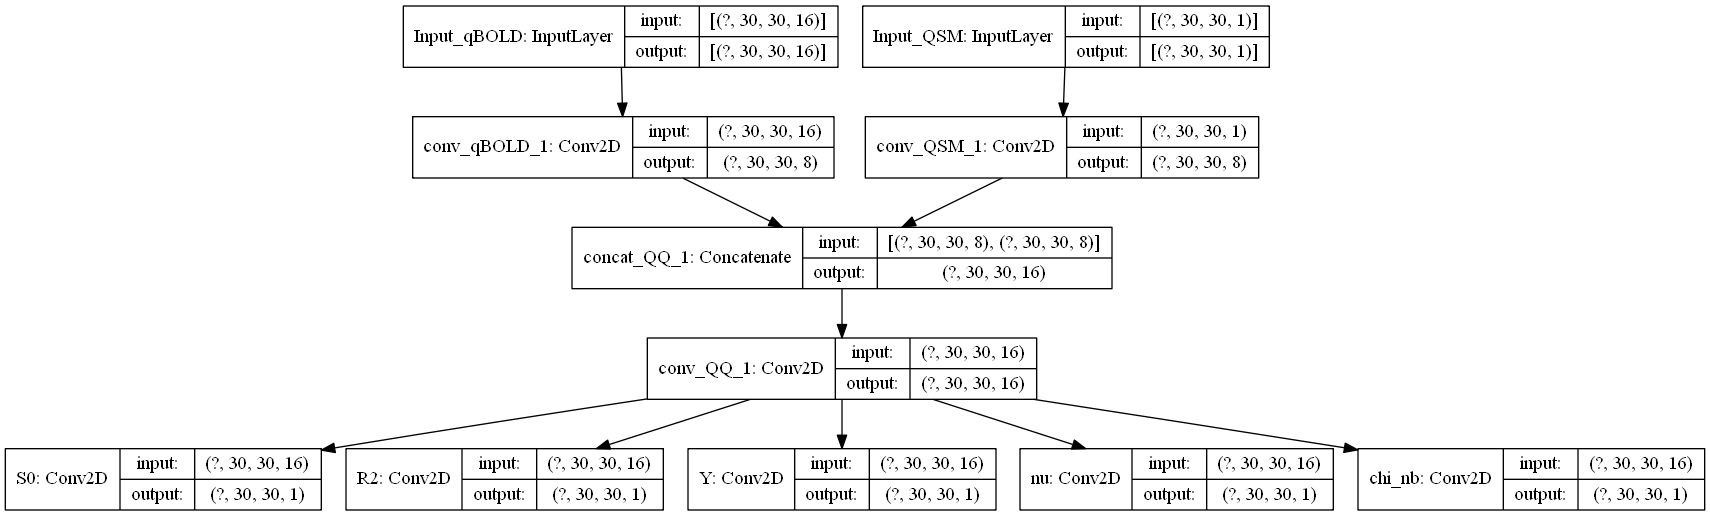
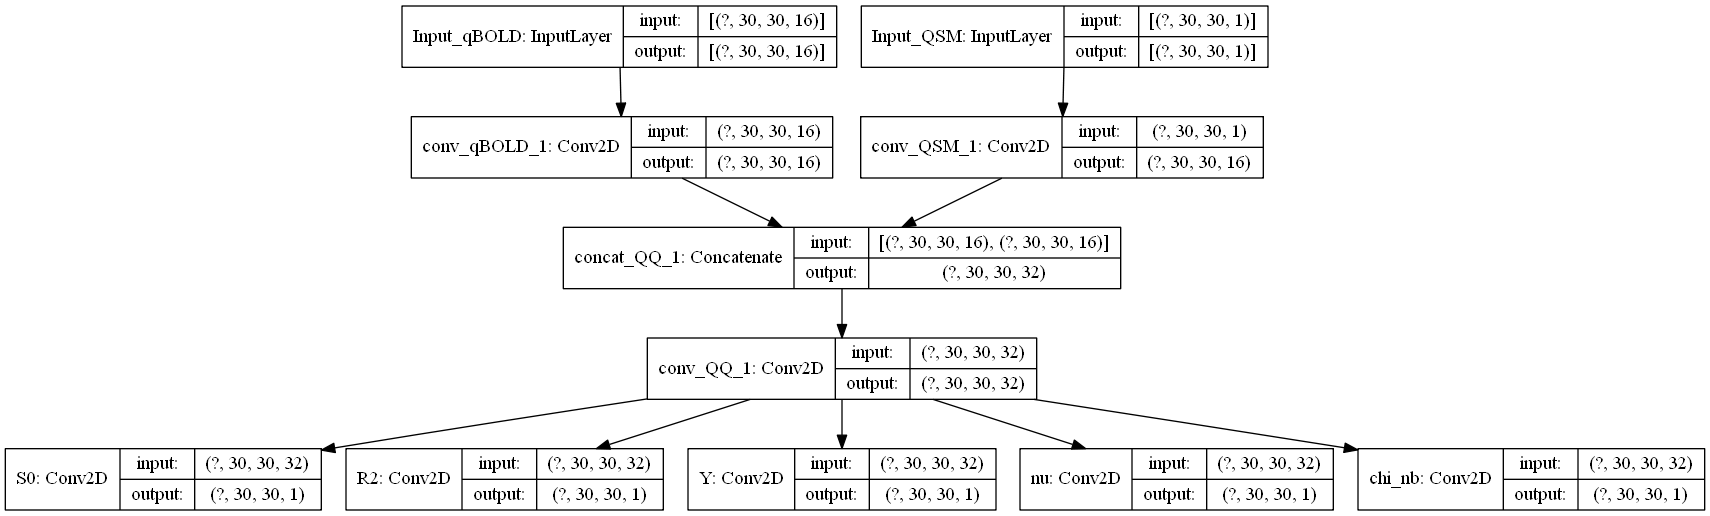
Add dataloader with noise

diff --git a/QSM_qBOLD_2D_network_with_dataset.py b/QSM_qBOLD_2D_network_with_dataset.py
@@ -37,12 +37,14 @@ version = "no_air_0noise_big/"
 filenames=[]
 filenumber=int(848820)
 for count in range(filenumber):
-    filenames.append("{0}.TIF".format(count).zfill(6+4))
+    filenames.append("{0}.npz".format(count).zfill(6+4))
 filenames_shuffled=shuffle(filenames)
 #split
-threshold = int(filenumber*0.8)
-filenames_train_shuffled=filenames[:threshold]
-filenames_val_shuffled=filenames[threshold:]
+threshold1 = int(filenumber*0.8)
+threshold2 = int(filenumber*0.9)
+filenames_train_shuffled=filenames[:threshold1]
+filenames_val_shuffled=filenames[threshold1:threshold2]
+filenames_test_shuffled=filenames[threshold2:]
 len(filenames_train_shuffled)
 #filenames_val_shuffled
 # %% Network
@@ -52,7 +54,7 @@ input_qBOLD = keras.Input(shape=(30,30,16), name = 'Input_qBOLD')
 input_qBOLD.shape
 input_qBOLD.dtype
 
-n=8
+n=16
 
 conv_qBOLD_1 = keras.layers.Conv2D(n,
                   kernel_size = 3,
@@ -152,8 +154,8 @@ losses = {
 lossWeights = {
     "S0":1.0,
     "R2":1.0,
-    "Y":1.0,
-    "nu":1.0,
+    "Y":5.0,
+    "nu":5.0,
     "chi_nb":1.0,
 }
 model_params.compile(
@@ -175,9 +177,9 @@ my_callbacks = [
 
 batch_size=100
 train_params_loader = QQBoldParamsLoader(name="training_loader",shuffle=False,n_inputs=2,n_labels=5)
-training_Params_data =train_params_loader(filenames_train_shuffled,batch_size=batch_size,n_epochs=100,read_threads=1)
+training_Params_data =train_params_loader(filenames_train_shuffled,batch_size=batch_size,read_threads=1)
 val_params_loader = QQBoldParamsLoader(name="val_loader",shuffle=False,n_inputs=2,n_labels=5)
-val_Params_data =train_params_loader(filenames_val_shuffled,batch_size=batch_size,n_epochs=100,read_threads=1)
+val_Params_data =train_params_loader(filenames_val_shuffled,batch_size=batch_size,read_threads=1)
 
 #data_read = train_params_loader._read_file_and_return_numpy_samples(bytes(filenames_train_shuffled[0],'utf-8'))
 #for i in data_read:
@@ -202,24 +204,22 @@ val_Params_data =train_params_loader(filenames_val_shuffled,batch_size=batch_siz
 history_params = model_params.fit(training_Params_data, validation_data=val_Params_data, epochs = 100, callbacks=my_callbacks)
 
 #%%
-"""
-S0_test = Params_test[:,:,:,0]
-R2_test = Params_test[:,:,:,1]
-Y_test = Params_test[:,:,:,2]
-nu_test = Params_test[:,:,:,3]
-chi_nb_test = Params_test[:,:,:,4]
-test_list = [S0_test,R2_test,Y_test,nu_test,chi_nb_test]
+np.save('models/'+version+'history_params_2D_fully_conv_Params_before_qqbold_5_times_weights.npy',history_params.history)
+np.save('models/'+version+'filenames_test_2D_fully_conv_Params_before_qqbold_5_times_weights.npy',filenames_test_shuffled)
+test_params_loader = QQBoldParamsLoader(name="test_loader",shuffle=False,n_inputs=2,n_labels=5)
+test_Params_data =train_params_loader(filenames_test_shuffled,batch_size=batch_size,read_threads=1)
 
 
-test_scores = model_params.evaluate([qBOLD_test,QSM_test], test_list, verbose=2)
+test_scores = model_params.evaluate(test_Params_data, verbose=2)
 print("Test loss:", test_scores[0])
 print("Test accuracy:", test_scores[1])
+
 #%%
 print(history_params.history.keys())
 def plot_loss(history, keyword):
     plt.figure()
-    plt.plot(history.history[keyword + 'loss'])
-    plt.plot(history.history['val_'+keyword+'loss'])
+    plt.plot(history.history[keyword + 'loss'],'o-')
+    plt.plot(history.history['val_'+keyword+'loss'],'o-')
     plt.yscale('log')
     plt.title('model ' +keyword+ 'loss')
     plt.ylabel('loss')
@@ -234,85 +234,227 @@ plot_loss(history_params,'nu_')
 plot_loss(history_params,'chi_nb_')
 
 #%%
-model_params.save("models/"+version+ "Model_2D_fully_conv_Params_before_qqbold.h5")
+model_params.save("models/"+version+ "Model_2D_fully_conv_Params_before_qqbold_5_times_weights.h5")
 
 # %%
 #model_params = keras.models.load_model("models/"+version+ "Model_2D_Params_before_qqbold.h5")
 #model_params.summary()
-p = model_params.predict([qBOLD_test,QSM_test])
+data_Params_reduced = test_Params_data.take(1)
+data_element=list(data_Params_reduced.as_numpy_iterator())[0]
+len(data_element) #2 x and y
+len(data_element[1]) #5 the 5 parameters
+data_element[1][0].shape
+p = model_params.predict(data_element)
+len(p)
 p[0].shape
+
 #%%
 def check_Params(Params_test,p,Number):
     fig, axes = plt.subplots(nrows=2, ncols=5,figsize=(15,5))
     ax = axes.ravel()
-    P0 = ax[0].imshow(Params_test[Number,:,:,0], cmap='gray')
+    P0 = ax[0].imshow(Params_test[0][Number,:,:], cmap='gray')
+    P0.set_clim(.0,1)
     ax[0].title.set_text('a')
     plt.colorbar(P0,ax=ax[0])
-    P1 = ax[1].imshow(Params_test[Number,:,:,1], cmap='gray')
+    P1 = ax[1].imshow(Params_test[1][Number,:,:], cmap='gray')
+    P1.set_clim(.0,1)
     ax[1].title.set_text('b')
     plt.colorbar(P1,ax=ax[1])
-    P2 = ax[2].imshow(Params_test[Number,:,:,2], cmap='gray')
+    P2 = ax[2].imshow(Params_test[2][Number,:,:], cmap='gray')
+    P2.set_clim(.0,1)
     ax[2].title.set_text('c')
     plt.colorbar(P2,ax=ax[2])
-    P3 = ax[3].imshow(Params_test[Number,:,:,3], cmap='gray')
+    P3 = ax[3].imshow(Params_test[3][Number,:,:], cmap='gray')
+    P3.set_clim(.0,1)
     ax[3].title.set_text('d')
     plt.colorbar(P3,ax=ax[3])
-    P4 = ax[4].imshow(Params_test[Number,:,:,4], cmap='gray')
+    P4 = ax[4].imshow(Params_test[4][Number,:,:], cmap='gray')
+    P4.set_clim(.0,1)
     ax[4].title.set_text('e')
     plt.colorbar(P4,ax=ax[4])
     P5 = ax[5].imshow(np.squeeze(p[0][Number,:,:,:]), cmap='gray')
+    P5.set_clim(.0,1)
     plt.colorbar(P5,ax=ax[5])
     P6 = ax[6].imshow(np.squeeze(p[1][Number,:,:,:]), cmap='gray')
+    P6.set_clim(.0,1)
     plt.colorbar(P6,ax=ax[6])
     P7 = ax[7].imshow(np.squeeze(p[2][Number,:,:,:]), cmap='gray')
+    P7.set_clim(.0,1)
     plt.colorbar(P7,ax=ax[7])
     P8 = ax[8].imshow(np.squeeze(p[3][Number,:,:,:]), cmap='gray')
+    P8.set_clim(.0,1)
     plt.colorbar(P8,ax=ax[8])
     P9 = ax[9].imshow(np.squeeze(p[4][Number,:,:,:]), cmap='gray')
+    P9.set_clim(.0,1)
     plt.colorbar(P9,ax=ax[9])
     plt.show()
 
     fig, axes = plt.subplots(nrows=1, ncols=5,figsize=(15,5))
     ax = axes.ravel()
-    ax[0].plot(Params_test[Number,15,:,0],'.')
+    ax[0].plot(Params_test[0][Number,15,:],'.')
     ax[0].plot(np.squeeze(p[0][Number,15,:,:]),'.')
+    ax[0].set_ylim(0,1)
     ax[0].title.set_text('a')
-    ax[1].plot(Params_test[Number,15,:,1],'.')
+    ax[1].plot(Params_test[1][Number,15,:],'.')
     ax[1].plot(np.squeeze(p[1][Number,15,:,:]),'.')
+    ax[1].set_ylim(0,1)
     ax[1].title.set_text('b')
-    ax[2].plot(Params_test[Number,15,:,2],'.')
+    ax[2].plot(Params_test[2][Number,15,:],'.')
     ax[2].plot(np.squeeze(p[2][Number,15,:,:]),'.')
+    ax[2].set_ylim(0,1)
     ax[2].title.set_text('c')
-    ax[3].plot(Params_test[Number,15,:,3],'.')
+    ax[3].plot(Params_test[3][Number,15,:],'.')
     ax[3].plot(np.squeeze(p[3][Number,15,:,:]),'.')
+    ax[3].set_ylim(0,1)
     ax[3].title.set_text('d')
-    ax[4].plot(Params_test[Number,15,:,4],'.')
+    ax[4].plot(Params_test[4][Number,15,:],'.')
     ax[4].plot(np.squeeze(p[4][Number,15,:,:]),'.')
+    ax[4].set_ylim(0,1)
     ax[4].title.set_text('e')
     plt.show()
 
 
     fig, axes = plt.subplots(nrows=2, ncols=5,figsize=(15,5))
     ax = axes.ravel()
-    ax[0].hist(Params_test[Number,:,:,0].ravel())
+    ax[0].hist(Params_test[0][Number,:,:].ravel(),range=((0,1)))
     ax[0].title.set_text('a')
-    ax[1].hist(Params_test[Number,:,:,1].ravel())
+    ax[1].hist(Params_test[1][Number,:,:].ravel(),range=((0,1)))
     ax[1].title.set_text('b')
-    ax[2].hist(Params_test[Number,:,:,2].ravel())
+    ax[2].hist(Params_test[2][Number,:,:].ravel(),range=((0,1)))
     ax[2].title.set_text('c')
-    ax[3].hist(Params_test[Number,:,:,3].ravel())
+    ax[3].hist(Params_test[3][Number,:,:].ravel(),range=((0,1)))
     ax[3].title.set_text('d')
-    ax[4].hist(Params_test[Number,:,:,4].ravel())
+    ax[4].hist(Params_test[4][Number,:,:].ravel(),range=((0,1)))
     ax[4].title.set_text('e')
-    ax[5].hist(np.squeeze(p[0][Number,:,:,:]).ravel())
-    ax[6].hist(np.squeeze(p[1][Number,:,:,:]).ravel())
-    ax[7].hist(np.squeeze(p[2][Number,:,:,:]).ravel())
-    ax[8].hist(np.squeeze(p[3][Number,:,:,:]).ravel())
-    ax[9].hist(np.squeeze(p[4][Number,:,:,:]).ravel())
+    ax[5].hist(np.squeeze(p[0][Number,:,:,:]).ravel(),range=((0,1)))
+    ax[6].hist(np.squeeze(p[1][Number,:,:,:]).ravel(),range=((0,1)))
+    ax[7].hist(np.squeeze(p[2][Number,:,:,:]).ravel(),range=((0,1)))
+    ax[8].hist(np.squeeze(p[3][Number,:,:,:]).ravel(),range=((0,1)))
+    ax[9].hist(np.squeeze(p[4][Number,:,:,:]).ravel(),range=((0,1)))
     plt.show()
 #%%
-Number = 2
-check_Params(Params_test,p,Number)
+Number = 5
+check_Params(data_element[1],p,Number)
+
+#%%
+def translate_Params(Params):
+    S0 = Params[0]   #S0     = 1000 + 200 * randn(N).T
+    R2 = (30-1) * Params[1] + 1  #from 1 to 30
+    SaO2 = 0.98
+    Y  = (SaO2 - 0.01) * Params[2] + 0.01   #from 1% to 98%
+    nu = (0.1 - 0.001) * Params[3] + 0.001  #from 0.1% to 10%
+    chi_nb = ( 0.1-(-0.1) ) * Params[4] - 0.1 #fr
+    return [S0,R2,Y,nu,chi_nb]
+
+
+def check_Params_transformed(Params_test,p,Number):
+    fig, axes = plt.subplots(nrows=2, ncols=5,figsize=(15,5))
+    ax = axes.ravel()
+    P0 = ax[0].imshow(Params_test[0][Number,:,:], cmap='gray')
+    P0.set_clim(.0,1)
+    ax[0].title.set_text('S0')
+    plt.colorbar(P0,ax=ax[0])
+    P1 = ax[1].imshow(Params_test[1][Number,:,:], cmap='gray')
+    P1.set_clim(0,30)
+    ax[1].title.set_text('R2')
+    plt.colorbar(P1,ax=ax[1])
+    P2 = ax[2].imshow(Params_test[2][Number,:,:], cmap='gray')
+    P2.set_clim(.0,1)
+    ax[2].title.set_text('Y')
+    plt.colorbar(P2,ax=ax[2])
+    P3 = ax[3].imshow(Params_test[3][Number,:,:], cmap='gray')
+    P3.set_clim(0,0.1)
+    ax[3].title.set_text('nu')
+    plt.colorbar(P3,ax=ax[3])
+    P4 = ax[4].imshow(Params_test[4][Number,:,:], cmap='gray')
+    P4.set_clim(-.1,.1)
+    ax[4].title.set_text('chi_nb')
+    plt.colorbar(P4,ax=ax[4])
+    P5 = ax[5].imshow(np.squeeze(p[0][Number,:,:,:]), cmap='gray')
+    P5.set_clim(.0,1)
+    plt.colorbar(P5,ax=ax[5])
+    P6 = ax[6].imshow(np.squeeze(p[1][Number,:,:,:]), cmap='gray')
+    P6.set_clim(0,30)
+    plt.colorbar(P6,ax=ax[6])
+    P7 = ax[7].imshow(np.squeeze(p[2][Number,:,:,:]), cmap='gray')
+    P7.set_clim(.0,1)
+    plt.colorbar(P7,ax=ax[7])
+    P8 = ax[8].imshow(np.squeeze(p[3][Number,:,:,:]), cmap='gray')
+    P8.set_clim(.0,0.1)
+    plt.colorbar(P8,ax=ax[8])
+    P9 = ax[9].imshow(np.squeeze(p[4][Number,:,:,:]), cmap='gray')
+    P9.set_clim(-.1,.1)
+    plt.colorbar(P9,ax=ax[9])
+    plt.show()
+
+    fig, axes = plt.subplots(nrows=1, ncols=5,figsize=(15,5))
+    ax = axes.ravel()
+    ax[0].plot(Params_test[0][Number,15,:],'.')
+    ax[0].plot(np.squeeze(p[0][Number,15,:,:]),'.')
+    ax[0].set_ylim(0,1)
+    ax[0].title.set_text('S0')
+    ax[1].plot(Params_test[1][Number,15,:],'.')
+    ax[1].plot(np.squeeze(p[1][Number,15,:,:]),'.')
+    ax[1].set_ylim(0,30)
+    ax[1].title.set_text('R2')
+    ax[2].plot(Params_test[2][Number,15,:],'.')
+    ax[2].plot(np.squeeze(p[2][Number,15,:,:]),'.')
+    ax[2].set_ylim(0,1)
+    ax[2].title.set_text('Y')
+    ax[3].plot(Params_test[3][Number,15,:],'.')
+    ax[3].plot(np.squeeze(p[3][Number,15,:,:]),'.')
+    ax[3].set_ylim(0,0.1)
+    ax[3].title.set_text('nu')
+    ax[4].plot(Params_test[4][Number,15,:],'.')
+    ax[4].plot(np.squeeze(p[4][Number,15,:,:]),'.')
+    ax[4].set_ylim(-.1,.1)
+    ax[4].title.set_text('chi_nb')
+    plt.show()
+
+
+    fig, axes = plt.subplots(nrows=2, ncols=5,figsize=(15,5))
+    ax = axes.ravel()
+    ax[0].hist(Params_test[0][Number,:,:].ravel(),range=((0,1)))
+    ax[0].title.set_text('S0')
+    ax[1].hist(Params_test[1][Number,:,:].ravel(),range=((0,30)))
+    ax[1].title.set_text('R2')
+    ax[2].hist(Params_test[2][Number,:,:].ravel(),range=((0,1)))
+    ax[2].title.set_text('Y')
+    ax[3].hist(Params_test[3][Number,:,:].ravel(),range=((0,0.1)))
+    ax[3].title.set_text('nu')
+    ax[4].hist(Params_test[4][Number,:,:].ravel(),range=((-.1,.1)))
+    ax[4].title.set_text('chi_nb')
+    ax[5].hist(np.squeeze(p[0][Number,:,:,:]).ravel(),range=((0,1)))
+    ax[6].hist(np.squeeze(p[1][Number,:,:,:]).ravel(),range=((0,30)))
+    ax[7].hist(np.squeeze(p[2][Number,:,:,:]).ravel(),range=((0,1)))
+    ax[8].hist(np.squeeze(p[3][Number,:,:,:]).ravel(),range=((0,.1)))
+    ax[9].hist(np.squeeze(p[4][Number,:,:,:]).ravel(),range=((-.1,.1)))
+    plt.show()
+
+label_transformed=translate_Params(data_element[1])
+prediction_transforemd=translate_Params(p)
+check_Params_transformed(label_transformed,prediction_transforemd,Number)
+
+#%% calculate MSE, histogram for whole test set like in Simons thesis
+m_S0 = tf.keras.metrics.MeanRelativeError(normalizer=label_transformed[0])
+m_S0.update_state(label_transformed[0],prediction_transforemd[0])
+m_S0.result().numpy()
+
+m_R2 = tf.keras.metrics.MeanRelativeError(normalizer=label_transformed[1])
+m_R2.update_state(label_transformed[1],prediction_transforemd[1])
+m_R2.result().numpy()
+
+m_Y = tf.keras.metrics.MeanRelativeError(normalizer=label_transformed[2])
+m_Y.update_state(label_transformed[2],prediction_transforemd[2])
+m_Y.result().numpy()
+
+m_nu = tf.keras.metrics.MeanRelativeError(normalizer=label_transformed[3])
+m_nu.update_state(label_transformed[3],prediction_transforemd[3])
+m_nu.result().numpy()
+
+m_chi_nb = tf.keras.metrics.MeanRelativeError(normalizer=label_transformed[4])
+m_chi_nb.update_state(label_transformed[4],prediction_transforemd[4])
+m_chi_nb.result().numpy()
 
 
 #%%
@@ -322,7 +464,7 @@ plt.figure()
 plt.imshow(QSM_test[Number,:,:,0], cmap='gray')
 
 # %%
-"""
+
 # Second training step
 """
 

diff --git a/qqboldparamsloadernoisy.py b/qqboldparamsloadernoisy.py
@@ -16,7 +16,7 @@ import config as cfg
 # configure logger
 logger = logging.getLogger(__name__)
 
-class QQBoldParamsLoader(DataLoader):
+class QQBoldParamsLoaderNoisy(DataLoader):
     """
     seed : int, optional
         set a fixed seed for the loader, by default 42
@@ -121,8 +121,8 @@ class QQBoldParamsLoader(DataLoader):
         Dataset=np.load("../Brain_Phantom/Patches_no_air_big/NumpyArchives/NumpyArchiv_" + file_name_queue.decode("utf-8"))
         #Dataset=np.load("../Brain_Phantom/Patches_no_air_big/NumpyArchives/NumpyArchiv_000000.npz")
         Params=Dataset['Params']
-        qBOLD=Dataset['qBOLD']
-        QSM=Dataset['QSM']
+        qBOLD=Dataset['qBOLD'] + np.random.normal(loc=0,scale=1./100,size=Dataset['qBOLD']) #max Amplitude = 1, so 1% noise
+        QSM=Dataset['QSM'] + np.random.normal(loc=0,scale=0.1/100,size=Dataset['QSM']) #max Amplitude = 0.1, so 1% noise
         #Params.shape
         #qBOLD.shape
         #QSM.shape

diff --git a/QSM_qBOLD_2D_create_data_numpy.py b/QSM_qBOLD_2D_create_data_numpy.py
@@ -207,7 +207,7 @@ examples_for_cropping()
 def create_images(seg):
     nda_seg = sitk.GetArrayViewFromImage(seg)
     count = 0 #count patches
-    for i in tqdm(range(seg.GetDepth())):
+    for i in tqdm(range(seg.GetDepth())): #seg.GetDepth()
         #crop empty area around brain
         seg_slice = threshold_based_crop(sitk.GetImageFromArray(nda_seg[i,:,:]))
         nda_seg_slice = sitk.GetArrayFromImage(seg_slice)
